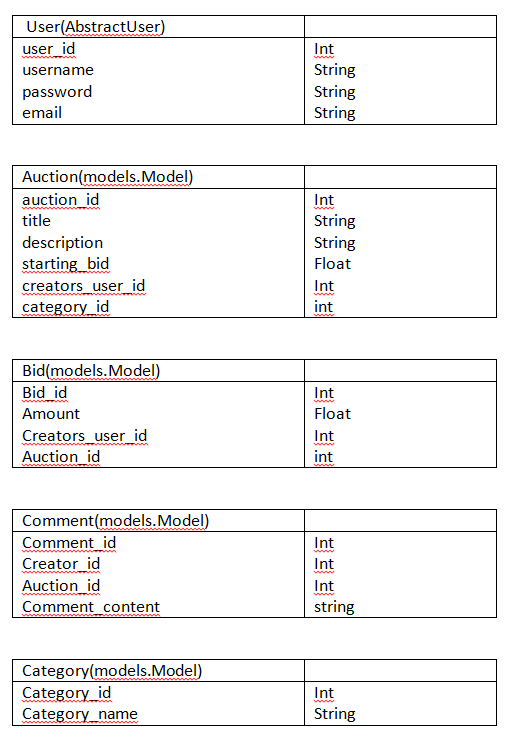
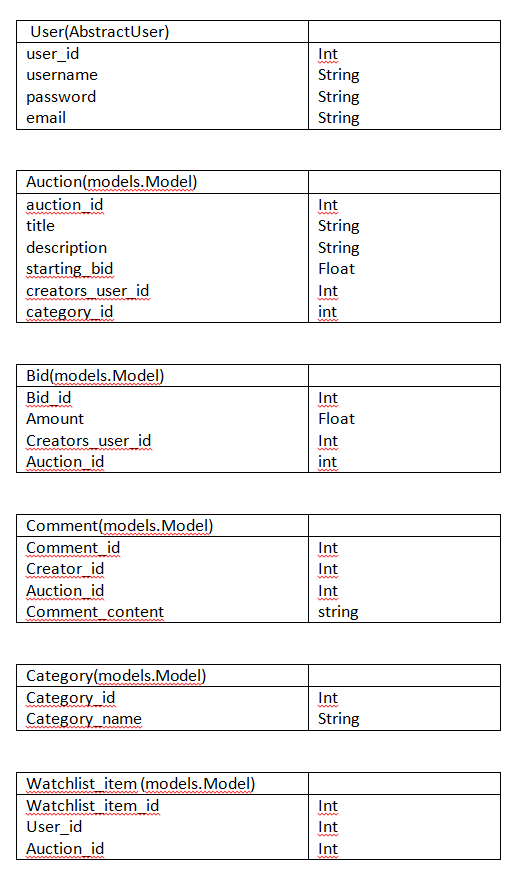
design

diff --git a/DESIGN.md b/DESIGN.md
@@ -12,18 +12,19 @@
 - Bids
 - Comments
 - Categories
+- Watchlist_items
 
 ![models](design_images/models.PNG)
 
 ## Database info needed per page
-- Active listings
-- Category list
-- Category page
-- Listing page
-- Login page
-- Register page
-- Create auction page
-- Watchlist page
+- Active listings: all auctions
+- Category list: All categories
+- Category page: all auctions in that category
+- Listing page: that auction info, bids on that auction, comments on that auction
+- Login page: users, to check if username and password are valid
+- Register page: All users (to check if username is not used yet), auctions(to check if title is not yet used)
+- Create auction page: current user, categories (to create dropdown menu)
+- Watchlist page: current user, Watchlist_items for that user, auctions that the users watchlist_items correspond with
 
 ## Arrow diagram
 ![arrow diagram](design_images/Commerce_pijltjes.png)
